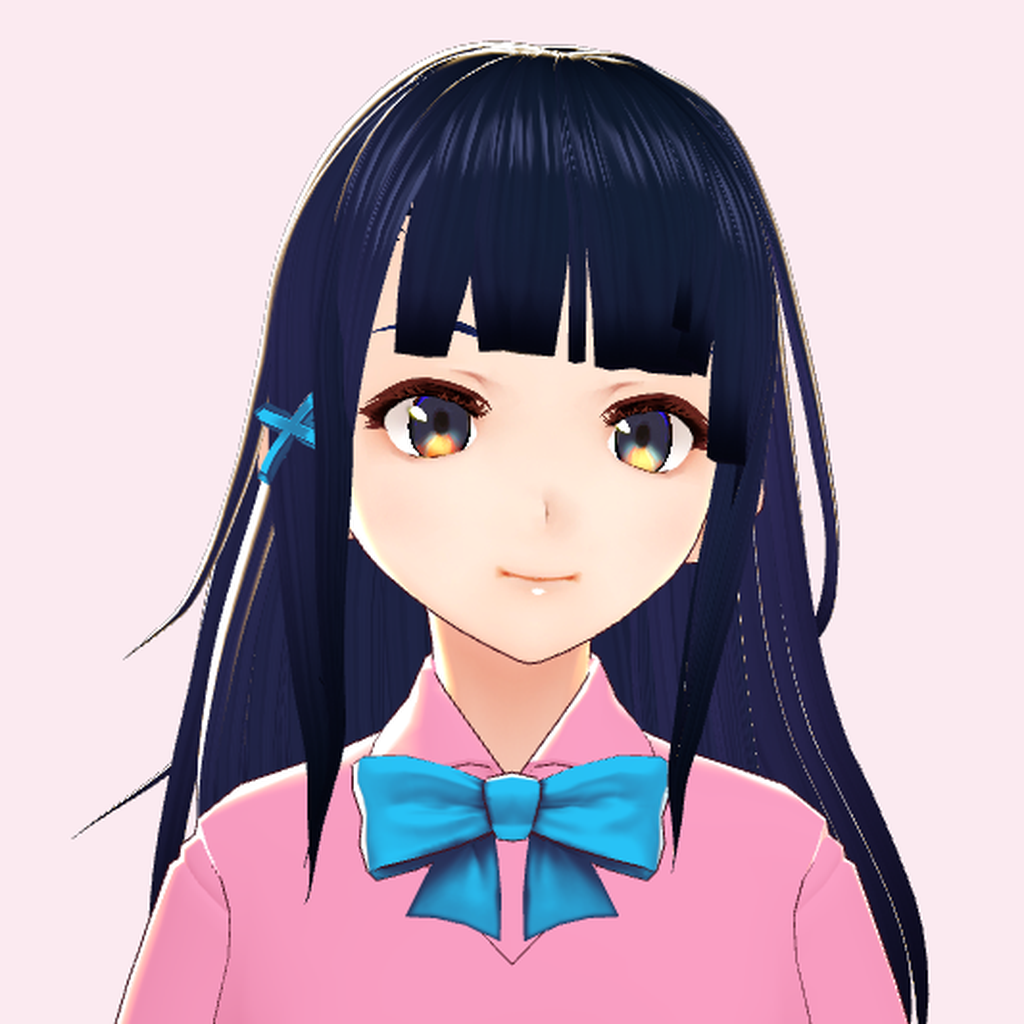
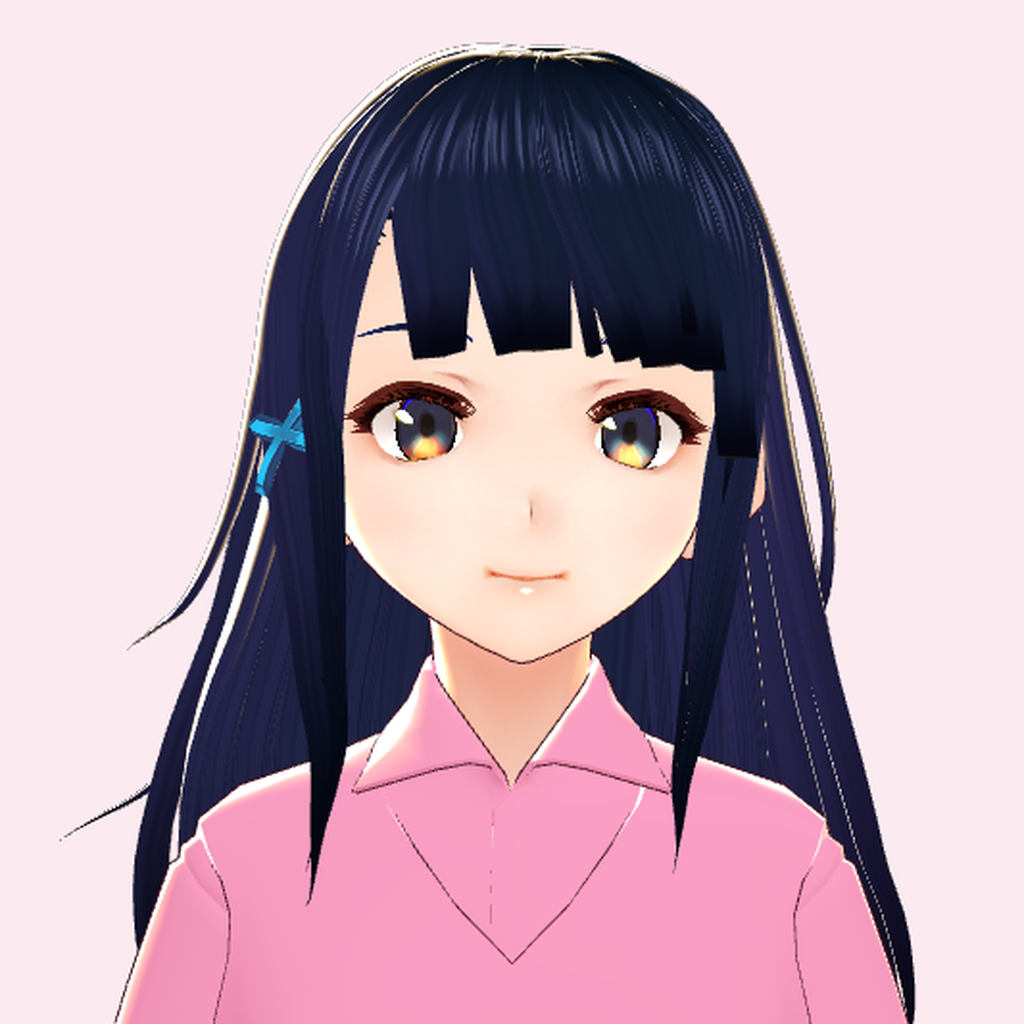
feat: sporty Cheri - white tennis skirt, pink polo, no school bow (v0.21.0)
Icons, splash, README portrait and the small 2D Cheri follow the new look.

diff --git a/src/lib/cheri/render.ts b/src/lib/cheri/render.ts
@@ -489,9 +489,9 @@ export function renderFrame(frame: Frame, mood: Mood): string {
     path("M45 124 L46 108 Q60 103 74 108 L75 124 Z", { fill: C.top }) +
     path("M19 124 Q21 108 35 104 L43 124 Z M101 124 Q99 108 85 104 L77 124 Z", { fill: C.jacket, stroke: C.jacketEdge, "stroke-width": 1.5 }) +
     el("rect", { x: 53.4, y: 72, width: 13.2, height: 24, fill: C.skin }) +
-    // blue bow like the 3D model; its knot is the status light
-    path("M60 85 L49.5 79.5 L49.5 90.5 Z M60 85 L70.5 79.5 L70.5 90.5 Z", { fill: "#29A9E0", stroke: "#1C7FB0", "stroke-width": 0.8, "stroke-linejoin": "round" }) +
-    el("circle", { cx: 60, cy: 85, r: 2.4, fill: led, stroke: "#1C7FB0", "stroke-width": 0.6 })
+    // polo collar like the 3D model; the button is the status light
+    path("M50 84 L60 92 L56 98 Z M70 84 L60 92 L64 98 Z", { fill: "#F7B5CF", stroke: "#D4537E", "stroke-width": 0.7, "stroke-linejoin": "round" }) +
+    el("circle", { cx: 60, cy: 95, r: 1.8, fill: led, stroke: "#D4537E", "stroke-width": 0.5 })
 
   const character =
     el("g", { transform: head }, path("M34 104 Q24 60 34 34 Q46 18 62 20 Q86 22 88 50 Q92 80 84 104 Z", { fill: C.hair })) +

diff --git a/web/cheri3d/scene.ts b/web/cheri3d/scene.ts
@@ -167,9 +167,10 @@ function plaidTexture(): THREE.CanvasTexture {
   return t
 }
 
+// Sporty look: pink top, white tennis skirt, no school bow.
 function restyleOutfit(model: VRM) {
   const pink = solidTexture("#f29abd")
-  const plaid = plaidTexture()
+  const plaid = solidTexture("#f7f6f9")
   model.scene.traverse((o) => {
     const mesh = o as THREE.Mesh
     if (!mesh.isMesh) return
@@ -178,10 +179,14 @@ function restyleOutfit(model: VRM) {
       const name = m.name || ""
       const top = /Tops/i.test(name)
       const skirt = /Bottoms/i.test(name)
+      if (/Accessory/i.test(name)) {
+        m.visible = false
+        continue
+      }
       if (!top && !skirt) continue
       m.map = top ? pink : plaid
       if (m.shadeMultiplyTexture !== undefined) m.shadeMultiplyTexture = top ? pink : plaid
-      if (m.shadeColorFactor) m.shadeColorFactor.set(top ? "#c8708f" : "#9a8aa8")
+      if (m.shadeColorFactor) m.shadeColorFactor.set(top ? "#c8708f" : "#c3c2d4")
       if (m.color) m.color.set("#ffffff")
       m.needsUpdate = true
     }
